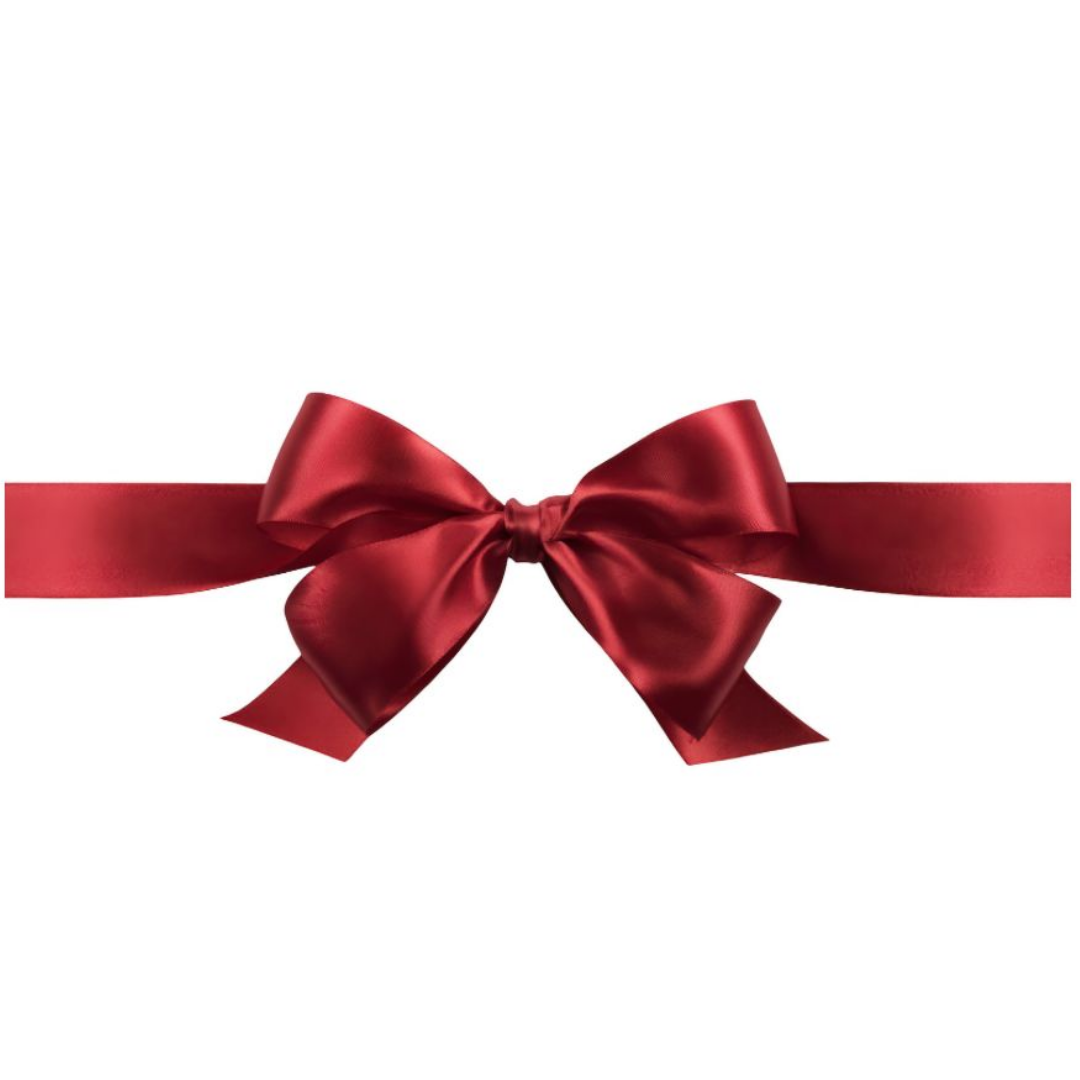
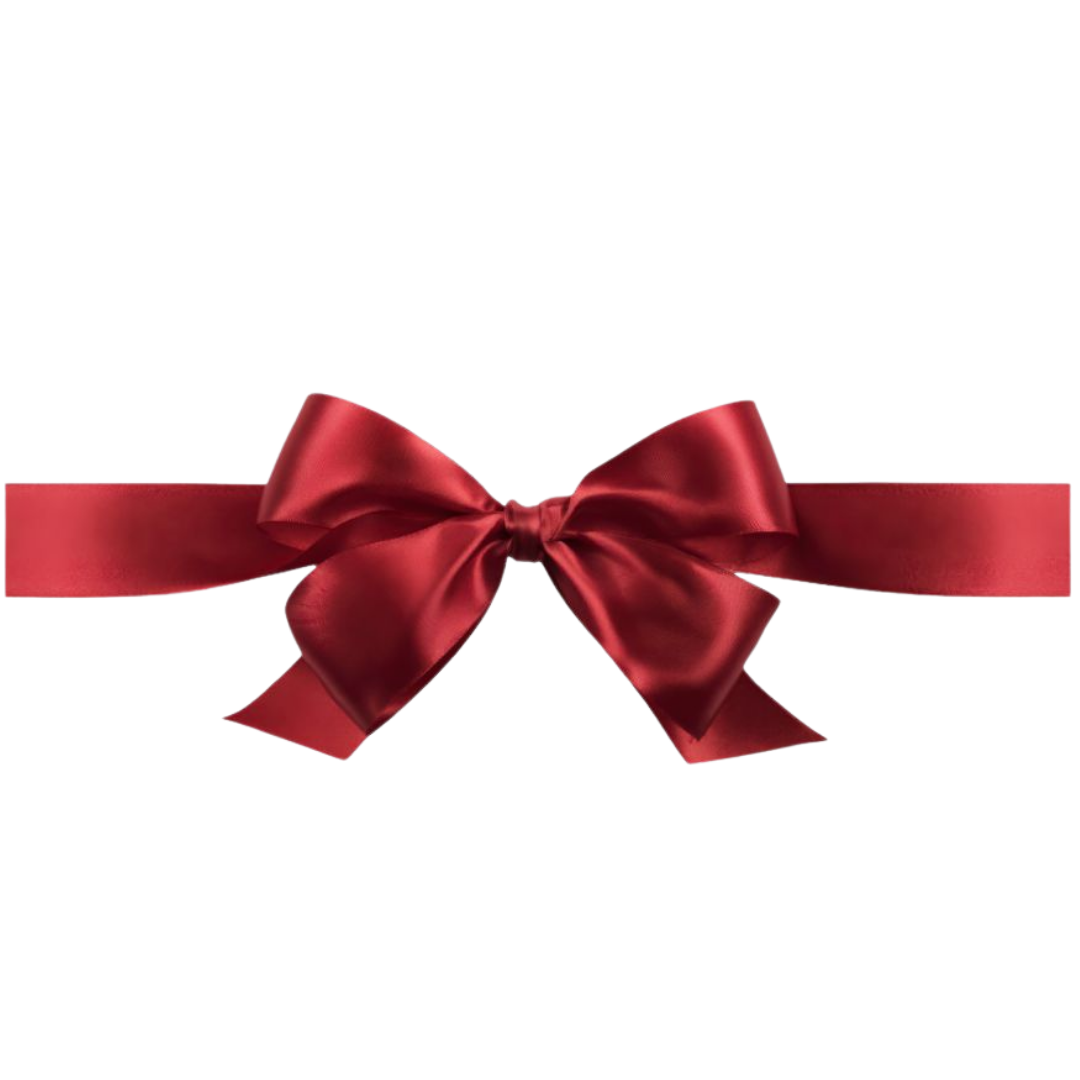
feat: add new memory photos, Flower1 on photo 1, and repeating Hiasanbunga between sections

diff --git a/src/App.tsx b/src/App.tsx
@@ -41,6 +41,14 @@ const ALL_KENANGAN_PHOTOS = [
   '/Gambar Kenangan/Gambar 3.jpeg',
   '/Gambar Kenangan/Gambar 4.jpeg',
   '/Gambar Kenangan/Gambar 5.jpeg',
+  '/Gambar Kenangan/Gambar 6.jpeg',
+  '/Gambar Kenangan/Gambar 7.jpeg',
+  '/Gambar Kenangan/Gambar 8.jpeg',
+  '/Gambar Kenangan/Gambar 9.jpeg',
+  '/Gambar Kenangan/Gambar 10.jpeg',
+  '/Gambar Kenangan/Gambar 11.jpeg',
+  '/Gambar Kenangan/Gambar 12.jpeg',
+  '/Gambar Kenangan/Gambar 13.jpeg',
 ];
 
 const LETTER = [
@@ -570,6 +578,13 @@ export default function App() {
                   backgroundPosition: 'center',
                 }}
               >
+                {i === 0 && (
+                  <img
+                    src="/elemen/Flower1.png"
+                    alt="Flower Ornament"
+                    className="frame-flower-decor"
+                  />
+                )}
                 {i === 1 && (
                   <>
                     <span className="tag l">galeri {CFG.aku.toLowerCase()}</span>
@@ -658,6 +673,20 @@ export default function App() {
                 className={`dot ${pg === i ? 'active' : ''}`}
                 onClick={() => setPg(i)}
                 aria-label={`Buka surat halaman ${i + 1}`}
+              />
+            ))}
+          </div>
+        </div>
+
+        {/* ─── PITA BUNGA BERULANG ANTARA SECTION SURAT & MUSIK ─── */}
+        <div className="floral-divider-strip" aria-hidden="true">
+          <div className="floral-divider-track">
+            {Array.from({ length: 14 }).map((_, idx) => (
+              <img
+                key={idx}
+                src="/elemen/Hiasanbunga.png"
+                alt=""
+                className="floral-garland-unit"
               />
             ))}
           </div>

diff --git a/src/index.css b/src/index.css
@@ -213,6 +213,23 @@ button {
   bottom: 18%;
 }
 
+.frame-flower-decor {
+  position: absolute;
+  top: -24px;
+  left: -24px;
+  width: clamp(56px, 8vw, 84px);
+  height: auto;
+  z-index: 5;
+  filter: drop-shadow(0 6px 14px rgba(122, 10, 22, 0.35));
+  pointer-events: none;
+  transform: rotate(-12deg);
+  transition: transform 0.4s var(--ease);
+}
+
+.frame:hover .frame-flower-decor {
+  transform: rotate(0deg) scale(1.12);
+}
+
 @keyframes rise {
   from {
     opacity: 0;
@@ -426,6 +443,45 @@ button {
 .letter-dots .dot.active {
   background: var(--wine);
   transform: scale(1.3);
+}
+
+/* ─── Repeating Floral Garland Divider (Between Surat & Musik) ─── */
+.floral-divider-strip {
+  width: 100vw;
+  position: relative;
+  left: 50%;
+  right: 50%;
+  margin-left: -50vw;
+  margin-right: -50vw;
+  margin-top: clamp(32px, 5vw, 56px);
+  margin-bottom: -1px;
+  overflow: hidden;
+  line-height: 0;
+  display: flex;
+  justify-content: center;
+  align-items: center;
+  background: transparent;
+  pointer-events: none;
+}
+
+.floral-divider-track {
+  display: flex;
+  align-items: center;
+  justify-content: center;
+  gap: 12px;
+  width: 100%;
+  min-width: 1200px;
+  overflow: hidden;
+}
+
+.floral-garland-unit {
+  height: clamp(32px, 4.5vw, 48px);
+  width: auto;
+  object-fit: contain;
+  opacity: 0.88;
+  filter: drop-shadow(0 2px 6px rgba(122, 10, 22, 0.15));
+  flex-shrink: 0;
+  transition: transform 0.3s ease;
 }
 
 /* ─── 3 Musik Section (with Real Album Covers) ─── */
